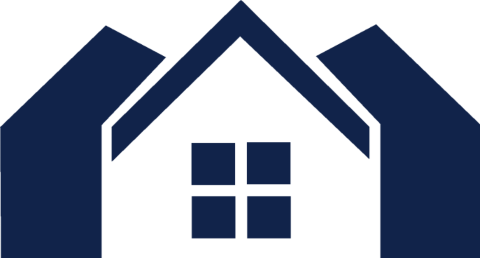
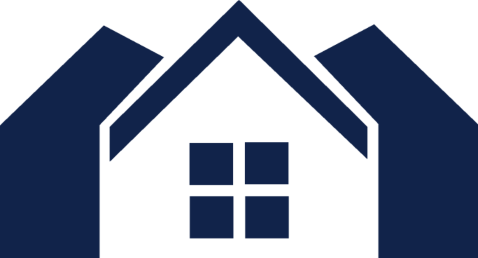
improve footer image

diff --git a/DoctorHouse/ClientApp/src/app/footer/footer.component.html b/DoctorHouse/ClientApp/src/app/footer/footer.component.html
@@ -1,4 +1,7 @@
 <!-- Footer -->
+<div class="footer-image-container">
+  <img src="../../assets/images/footimage.png" id="footer-image"><br />
+</div>
 <footer class="page-footer font-small indigo">
 
   <!-- Footer Links -->
@@ -116,7 +119,7 @@
   <!-- Footer Links -->
   <!-- Copyright -->
   <div class="footer-copyright text-center py-3">
-    <img src="../../assets/images/socialmedia.png"/><br />
+    <img src="../../assets/images/socialmedia.png" /><br />
     <b>
       © Copyright © 2020 Tenacious C
     </b>

diff --git a/DoctorHouse/ClientApp/src/styles.css b/DoctorHouse/ClientApp/src/styles.css
@@ -1,5 +1,4 @@
-/* You can add global styles to this file, and also import other style files */
-/* Provide sufficient contrast against white background */
+
 
 @import "~bootstrap/dist/css/bootstrap.css";
 
@@ -25,9 +24,6 @@ body {
 
   body.light-bg {
     background-color: #f8f9fa;
-/*    background-image: url("~/assets/images/footimage.png");
-    background-position: right bottom;
-    background-repeat: no-repeat;*/
   }
 
 

diff --git a/DoctorHouse/ClientApp/src/app/footer/footer.component.css b/DoctorHouse/ClientApp/src/app/footer/footer.component.css
@@ -12,3 +12,15 @@ div.container.text-center.text-md-left {
   color: #11234A;
   background-color: #11234A;
 }
+
+.footer-image-container {
+  background-color: #f8f9fa;
+  display: flex;
+  justify-content: flex-end;
+}
+
+#footer-image {
+  display: flex;
+}
+
+

diff --git a/DoctorHouse/ClientApp/src/app/home/home.component.html b/DoctorHouse/ClientApp/src/app/home/home.component.html
@@ -2,7 +2,7 @@
 <main role="main">
   <app-main-text></app-main-text>
   <app-cards></app-cards>
-  <p class="lead text-muted">Not found what you are looking for? <b>Search:</b></p>
+
   <app-searchbar-main></app-searchbar-main>
 
 </main>

diff --git a/DoctorHouse/ClientApp/src/app/searchbar-main/searchbar-main.component.html b/DoctorHouse/ClientApp/src/app/searchbar-main/searchbar-main.component.html
@@ -1,4 +1,5 @@
 <div class="active-cyan-4 mb-4">
+  <p class="lead text-muted">Not found what you are looking for? <b>Search:</b></p>
   <input class="form-control" type="text" placeholder="Search" aria-label="Search">
   <br />
   <br />
